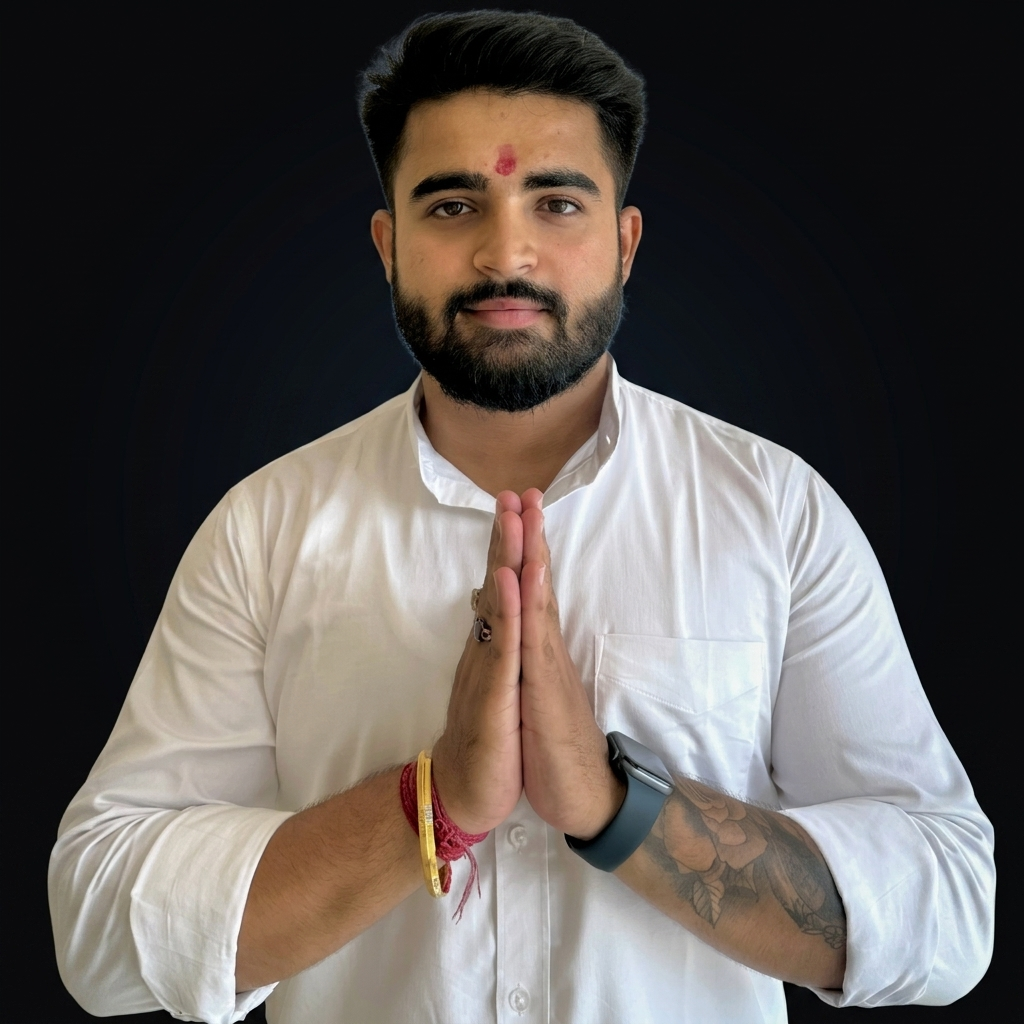
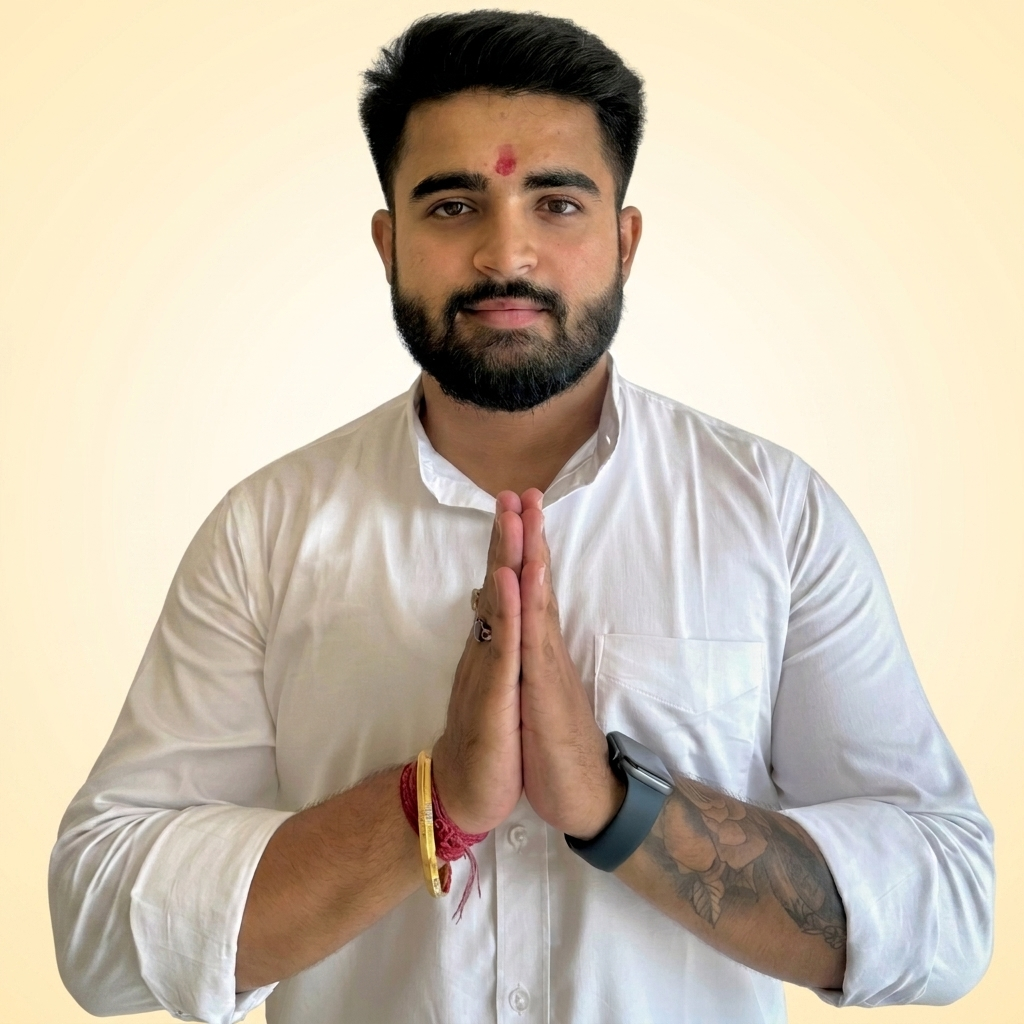
feat: light yellow theme with updated portrait background

diff --git a/src/app/page.tsx b/src/app/page.tsx
@@ -59,34 +59,34 @@ export default function Home() {
             <div className="hero-visual">
               <svg width="340" height="340" viewBox="0 0 100 100" fill="none" xmlns="http://www.w3.org/2000/svg" style={{ opacity: 0.85 }}>
                 {/* Concentric Orbits */}
-                <circle cx="50" cy="50" r="45" stroke="rgba(255,255,255,0.06)" strokeWidth="0.5" />
-                <circle cx="50" cy="50" r="35" stroke="rgba(255,255,255,0.03)" strokeWidth="0.5" strokeDasharray="2 2" />
-                <circle cx="50" cy="50" r="25" stroke="rgba(255,255,255,0.06)" strokeWidth="0.5" />
-                <circle cx="50" cy="50" r="12" stroke="rgba(255,255,255,0.03)" strokeWidth="0.5" strokeDasharray="1 1" />
+                <circle cx="50" cy="50" r="45" stroke="rgba(180, 150, 50, 0.12)" strokeWidth="0.5" />
+                <circle cx="50" cy="50" r="35" stroke="rgba(180, 150, 50, 0.08)" strokeWidth="0.5" strokeDasharray="2 2" />
+                <circle cx="50" cy="50" r="25" stroke="rgba(180, 150, 50, 0.12)" strokeWidth="0.5" />
+                <circle cx="50" cy="50" r="12" stroke="rgba(180, 150, 50, 0.08)" strokeWidth="0.5" strokeDasharray="1 1" />
                 
                 {/* Crosshairs */}
-                <line x1="50" y1="2" x2="50" y2="98" stroke="rgba(255,255,255,0.02)" strokeWidth="0.3" />
-                <line x1="2" y1="50" x2="98" y2="50" stroke="rgba(255,255,255,0.02)" strokeWidth="0.3" />
+                <line x1="50" y1="2" x2="50" y2="98" stroke="rgba(180, 150, 50, 0.06)" strokeWidth="0.3" />
+                <line x1="2" y1="50" x2="98" y2="50" stroke="rgba(180, 150, 50, 0.06)" strokeWidth="0.3" />
                 
                 {/* Diagonal rays */}
-                <line x1="18.2" y1="18.2" x2="81.8" y2="81.8" stroke="rgba(255,255,255,0.015)" strokeWidth="0.3" />
-                <line x1="18.2" y1="81.8" x2="81.8" y2="18.2" stroke="rgba(255,255,255,0.015)" strokeWidth="0.3" />
+                <line x1="18.2" y1="18.2" x2="81.8" y2="81.8" stroke="rgba(180, 150, 50, 0.04)" strokeWidth="0.3" />
+                <line x1="18.2" y1="81.8" x2="81.8" y2="18.2" stroke="rgba(180, 150, 50, 0.04)" strokeWidth="0.3" />
                 
                 {/* Constellation 1 */}
-                <path d="M50 20 L65 28 L72 45" stroke="rgba(251, 191, 36, 0.25)" strokeWidth="0.4" strokeDasharray="1 1" />
-                <circle cx="50" cy="20" r="1" fill="#fbbf24" />
-                <circle cx="65" cy="28" r="0.8" fill="#fbbf24" opacity="0.8" />
-                <circle cx="72" cy="45" r="1.2" fill="#fef9e7" />
+                <path d="M50 20 L65 28 L72 45" stroke="rgba(217, 119, 6, 0.3)" strokeWidth="0.4" strokeDasharray="1 1" />
+                <circle cx="50" cy="20" r="1" fill="#d97706" />
+                <circle cx="65" cy="28" r="0.8" fill="#d97706" opacity="0.8" />
+                <circle cx="72" cy="45" r="1.2" fill="#92400e" />
                 
                 {/* Constellation 2 */}
-                <path d="M28 65 L35 75 L50 80" stroke="rgba(251, 191, 36, 0.15)" strokeWidth="0.3" />
-                <circle cx="28" cy="65" r="0.8" fill="#fef9e7" opacity="0.6" />
-                <circle cx="35" cy="75" r="1" fill="#fef9e7" />
-                <circle cx="50" cy="80" r="0.7" fill="#fbbf24" />
+                <path d="M28 65 L35 75 L50 80" stroke="rgba(217, 119, 6, 0.2)" strokeWidth="0.3" />
+                <circle cx="28" cy="65" r="0.8" fill="#92400e" opacity="0.6" />
+                <circle cx="35" cy="75" r="1" fill="#92400e" />
+                <circle cx="50" cy="80" r="0.7" fill="#d97706" />
                 
                 {/* Center Star */}
-                <path d="M50 46 L51.2 48.8 L54 50 L51.2 51.2 L50 54 L48.8 51.2 L46 50 L48.8 48.8 Z" fill="rgba(251, 191, 36, 0.8)" />
-                <circle cx="50" cy="50" r="5" stroke="rgba(251, 191, 36, 0.35)" strokeWidth="0.4" />
+                <path d="M50 46 L51.2 48.8 L54 50 L51.2 51.2 L50 54 L48.8 51.2 L46 50 L48.8 48.8 Z" fill="rgba(217, 119, 6, 0.7)" />
+                <circle cx="50" cy="50" r="5" stroke="rgba(217, 119, 6, 0.35)" strokeWidth="0.4" />
               </svg>
             </div>
           </div>
@@ -105,8 +105,8 @@ export default function Home() {
                   style={{
                     width: "70px",
                     height: "70px",
-                    background: "rgba(251, 191, 36, 0.06)",
-                    border: "1px solid rgba(251, 191, 36, 0.2)",
+                    background: "rgba(217, 119, 6, 0.06)",
+                    border: "1px solid rgba(217, 119, 6, 0.18)",
                     borderRadius: "12px",
                     display: "flex",
                     alignItems: "center",
@@ -145,7 +145,7 @@ export default function Home() {
                 </div>
               </div>
 
-              <hr style={{ border: "none", borderTop: "1px solid rgba(255, 255, 255, 0.05)" }} />
+              <hr style={{ border: "none", borderTop: "1px solid rgba(180, 150, 50, 0.12)" }} />
 
               {/* Category 2: Career & Business */}
               <div className="guidance-item">
@@ -153,8 +153,8 @@ export default function Home() {
                   style={{
                     width: "70px",
                     height: "70px",
-                    background: "rgba(251, 191, 36, 0.06)",
-                    border: "1px solid rgba(251, 191, 36, 0.2)",
+                    background: "rgba(217, 119, 6, 0.06)",
+                    border: "1px solid rgba(217, 119, 6, 0.18)",
                     borderRadius: "12px",
                     display: "flex",
                     alignItems: "center",
@@ -193,7 +193,7 @@ export default function Home() {
                 </div>
               </div>
 
-              <hr style={{ border: "none", borderTop: "1px solid rgba(255, 255, 255, 0.05)" }} />
+              <hr style={{ border: "none", borderTop: "1px solid rgba(180, 150, 50, 0.12)" }} />
 
               {/* Category 3: Family & Relationships */}
               <div className="guidance-item">
@@ -201,8 +201,8 @@ export default function Home() {
                   style={{
                     width: "70px",
                     height: "70px",
-                    background: "rgba(251, 191, 36, 0.06)",
-                    border: "1px solid rgba(251, 191, 36, 0.2)",
+                    background: "rgba(217, 119, 6, 0.06)",
+                    border: "1px solid rgba(217, 119, 6, 0.18)",
                     borderRadius: "12px",
                     display: "flex",
                     alignItems: "center",
@@ -241,7 +241,7 @@ export default function Home() {
                 </div>
               </div>
 
-              <hr style={{ border: "none", borderTop: "1px solid rgba(255, 255, 255, 0.05)" }} />
+              <hr style={{ border: "none", borderTop: "1px solid rgba(180, 150, 50, 0.12)" }} />
 
               {/* Category 4: Health & Vitality */}
               <div className="guidance-item">
@@ -249,8 +249,8 @@ export default function Home() {
                   style={{
                     width: "70px",
                     height: "70px",
-                    background: "rgba(251, 191, 36, 0.06)",
-                    border: "1px solid rgba(251, 191, 36, 0.2)",
+                    background: "rgba(217, 119, 6, 0.06)",
+                    border: "1px solid rgba(217, 119, 6, 0.18)",
                     borderRadius: "12px",
                     display: "flex",
                     alignItems: "center",
@@ -294,7 +294,7 @@ export default function Home() {
         </section>
 
         {/* ABOUT SECTION */}
-        <section id="about" aria-label="About Shubham Chhabra" className="section" style={{ background: "rgba(20, 16, 4, 0.4)", padding: "6rem 0" }}>
+        <section id="about" aria-label="About Shubham Chhabra" className="section" style={{ background: "rgba(248, 243, 227, 0.6)", padding: "6rem 0" }}>
           <div className="nebula-glow-2" />
           <div className="container about-grid">
             <div className="glass-card" style={{ padding: "0.5rem", overflow: "hidden", display: "flex", justifyContent: "center", alignItems: "center" }}>
@@ -338,7 +338,7 @@ export default function Home() {
         </section>
 
         {/* FAQ SECTION */}
-        <section id="faq" aria-label="Frequently Asked Questions" className="section" style={{ background: "rgba(20, 16, 4, 0.4)", padding: "6rem 0" }}>
+        <section id="faq" aria-label="Frequently Asked Questions" className="section" style={{ background: "rgba(248, 243, 227, 0.6)", padding: "6rem 0" }}>
           <script
             type="application/ld+json"
             dangerouslySetInnerHTML={{

diff --git a/src/app/globals.css b/src/app/globals.css
@@ -6,19 +6,19 @@
 }
 
 :root {
-  /* Color Palette — Warm Yellow Theme */
-  --bg-dark: #0c0a04;
-  --bg-card: #161308;
-  --border-color: rgba(255, 215, 0, 0.08);
-  --border-focus: rgba(255, 215, 0, 0.3);
+  /* Color Palette — Light Yellow Theme */
+  --bg-dark: #fffdf5;
+  --bg-card: #ffffff;
+  --border-color: rgba(180, 150, 50, 0.15);
+  --border-focus: rgba(180, 150, 50, 0.35);
   
-  --gold-primary: #fbbf24;
-  --gold-dark: #d4970a;
-  --stellar-cyan: #fde68a;
+  --gold-primary: #d97706;
+  --gold-dark: #b45309;
+  --stellar-cyan: #92400e;
   
-  --text-primary: #fef9e7;
-  --text-secondary: #c8b88a;
-  --text-muted: #8a7d5e;
+  --text-primary: #1c1408;
+  --text-secondary: #5c4a28;
+  --text-muted: #8a7a58;
   
   /* Fonts */
   --font-heading: var(--font-outfit), 'Outfit', system-ui, sans-serif;
@@ -48,11 +48,11 @@ html, body {
   background: var(--bg-dark);
 }
 ::-webkit-scrollbar-thumb {
-  background: #3d3518;
+  background: #d4c49a;
   border-radius: 3px;
 }
 ::-webkit-scrollbar-thumb:hover {
-  background: #5a4e2a;
+  background: #b8a47a;
 }
 
 /* Ambiance glow */
@@ -63,7 +63,7 @@ html, body {
   width: 50vw;
   height: 50vw;
   border-radius: 50%;
-  background: radial-gradient(circle, rgba(251, 191, 36, 0.04) 0%, transparent 70%);
+  background: radial-gradient(circle, rgba(251, 191, 36, 0.08) 0%, transparent 70%);
   z-index: -1;
   pointer-events: none;
   filter: blur(120px);
@@ -95,7 +95,7 @@ h1 {
   font-size: clamp(2.2rem, 5vw, 3.8rem);
   font-weight: 300;
   letter-spacing: -0.02em;
-  color: #fff;
+  color: var(--text-primary);
 }
 
 h2 {
@@ -124,7 +124,7 @@ p {
   left: 0;
   width: 100%;
   z-index: 100;
-  background: rgba(12, 10, 4, 0.85);
+  background: rgba(255, 253, 245, 0.9);
   backdrop-filter: blur(12px);
   -webkit-backdrop-filter: blur(12px);
   border-bottom: 1px solid var(--border-color);
@@ -203,8 +203,8 @@ p {
   gap: 0.4rem;
   padding: 0.25rem 0.65rem;
   border-radius: 4px;
-  background: rgba(251, 191, 36, 0.06);
-  border: 1px solid rgba(251, 191, 36, 0.15);
+  background: rgba(217, 119, 6, 0.08);
+  border: 1px solid rgba(217, 119, 6, 0.2);
   font-size: 0.75rem;
   color: var(--gold-primary);
   text-transform: uppercase;
@@ -285,15 +285,15 @@ p {
 
 .btn-primary {
   background: var(--gold-primary);
-  color: #0c0a04;
+  color: #fff;
   border: 1px solid var(--gold-primary);
 }
 
 .btn-primary:hover {
-  background: #fcd34d;
-  border-color: #fcd34d;
+  background: var(--gold-dark);
+  border-color: var(--gold-dark);
   transform: translateY(-1px);
-  box-shadow: 0 4px 20px rgba(251, 191, 36, 0.2);
+  box-shadow: 0 4px 20px rgba(217, 119, 6, 0.25);
 }
 
 .btn-secondary {
@@ -303,7 +303,7 @@ p {
 }
 
 .btn-secondary:hover {
-  background: rgba(251, 191, 36, 0.06);
+  background: rgba(217, 119, 6, 0.06);
   border-color: var(--border-focus);
   transform: translateY(-1px);
 }
@@ -360,7 +360,7 @@ p {
 .form-input {
   width: 100%;
   padding: 0.75rem 1rem;
-  background: rgba(255, 255, 255, 0.01);
+  background: #fff;
   border: 1px solid var(--border-color);
   border-radius: 4px;
   color: var(--text-primary);
@@ -372,8 +372,8 @@ p {
 
 .form-input:focus {
   border-color: var(--gold-primary);
-  background: rgba(251, 191, 36, 0.03);
-  box-shadow: 0 0 0 2px rgba(251, 191, 36, 0.08);
+  background: #fff;
+  box-shadow: 0 0 0 2px rgba(217, 119, 6, 0.12);
 }
 
 /* Select element modern style */
@@ -388,7 +388,7 @@ select.form-input {
 
 /* Footer */
 .footer {
-  background: var(--bg-dark);
+  background: #f8f3e3;
   border-top: 1px solid var(--border-color);
   padding: 4rem 0 2rem 0;
 }
@@ -520,7 +520,7 @@ select.form-input {
 
 strong {
   font-weight: 700;
-  color: var(--text-primary);
+  color: #1c1408;
 }
 
 /* Guidance Categories Grid Sizing */